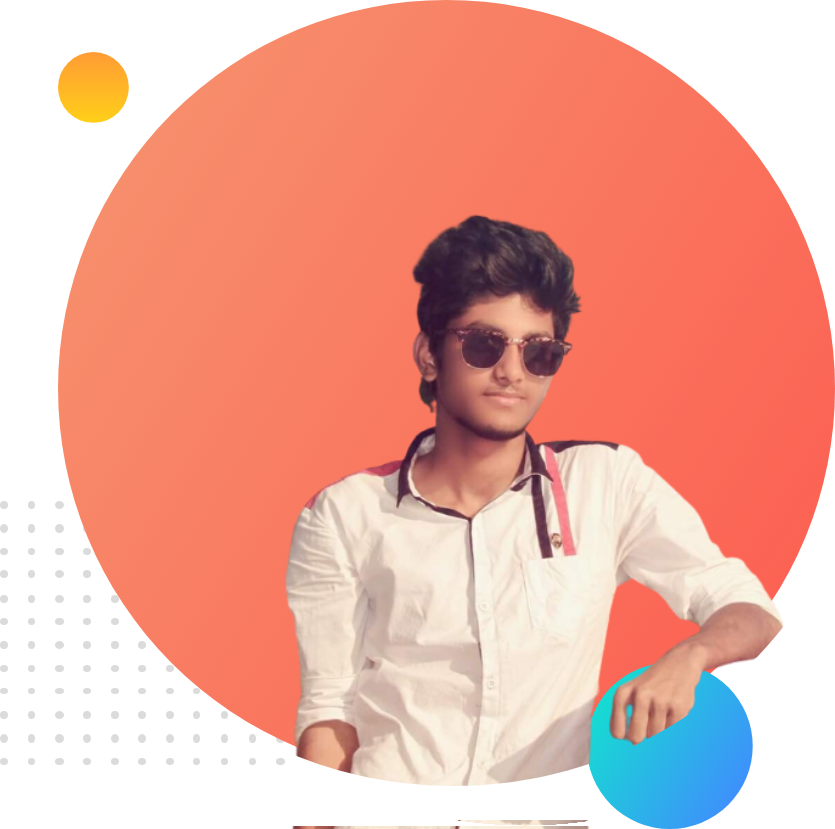
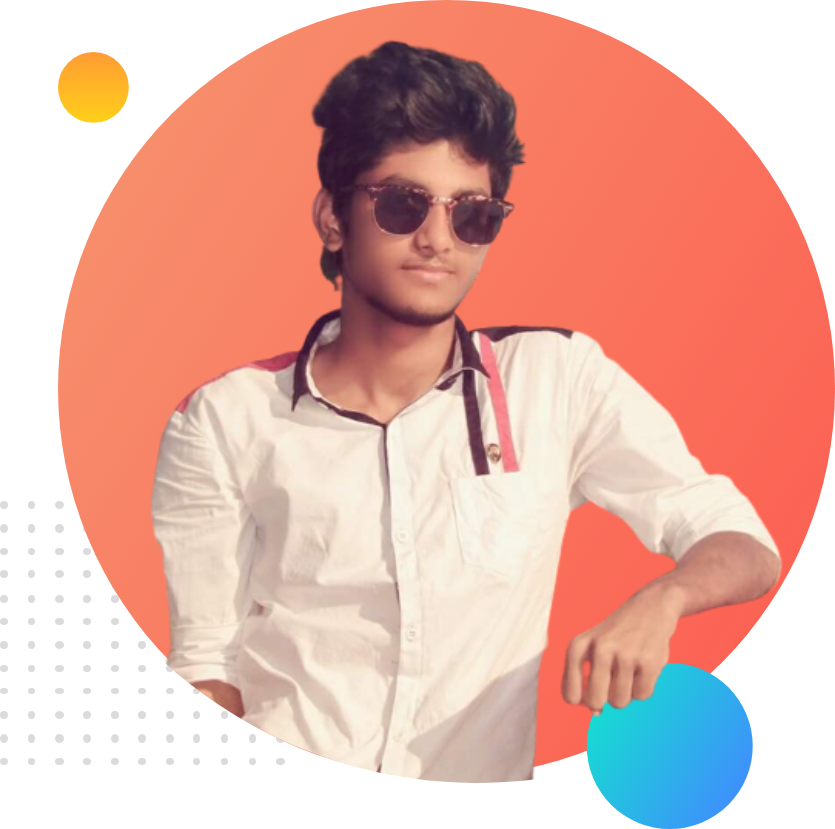
new png

diff --git a/index.html b/index.html
@@ -13,11 +13,11 @@
 </head>
 
 <body>
-    <section class="top-banner">
+    <section class="top-banner flexible-container">
         <div class="half-width">
             <h1>Welcome To</h1>
             <h1><span class="orange-color">Joy Chakraborty</span> World</h1>
-            <h2>Build Climber and Train Stopper</h2>
+            <h3>Build Climber and Train Stopper</h3>
             <p>You might saw me jumping, climbing buildings, and stopping trains. But nobody pays me a dime for that
                 work.
                 That's why I am learning and mastering web development. I will not stop until I become the Web
@@ -30,20 +30,49 @@
             <img src="images/joy.png" alt="">
         </div>
     </section>
-    <section>
-        <div class="half-width">
-            <h1>Dream Big</h1>
-            <h2>Become a web developer</h2>
-            <p>I already learned the basic HTML and CSS. I can build any simple website. I can even teach my grandma how
-                to make simple website. My goal is to build 3 websites and learn advanced topics.</p>
-            <a class="link-button" target="_blank"
-                href="https://www.linkedin.com/feed/?trk=onboarding-landing/">DOWNLOAD RESUME</a>
-        </div>
+    <section class="dream-big flexible-container">
         <div class="half-width">
             <img src="images/my-bg2.png" alt="">
         </div>
+        <div class="half-width">
+            <h1>Dream Big</h1>
+            <h3 class="orange-color">Become a web developer</h3>
+            <p>I already learned the basic HTML and CSS. I can build any simple website. I can even teach my grandma
+                how to make simple website. My goal is to build 3 websites and learn advanced topics.</p>
+            <a class="link-button" target="_blank"
+                href="https://www.linkedin.com/feed/?trk=onboarding-landing/">DOWNLOAD RESUME</a>
+        </div>
+
+
+        </div>
+    </section>
+    <section class="experience-area">
+        <h1>Experinces</h1>
+        <div class="flexible-container">
+            <div id="full-stack-developer" class="experince-item">
+                <h2>Full Stack Web developer</h2>
+                <h3 class="orange-color">2024-Present | Pro Level Developer</h3>
+                <p>I am the master of HTML, CSS and Javascript. I know everything needed to make a website function,
+                    efficient. I didn't stop with the web. I went beyond with most popular Javascript framework called
+                    Vue
+                    JS. I even know the deployment, server and security. I will give you 100% web solution.</p>
+            </div>
+            <div id="baby-web-developer" class="experince-item">
+                <h2>Baby Web Developer</h2>
+                <h3 class="orange-color">2022-2024 | Hero Learner</h3>
+                <p>They didn't offer me a job. But I made myself as a remove web developer. I made their website and
+                    showed
+                    it to them. They liked it. And uploaded the content. It was fun working at Programming Hero.
+
+                    © Peter Parker 2023, a Programming Hero initiative.</p>
+            </div>
+        </div>
+
     </section>
 
 </body>
+<footer>
+    <p>© Peter Parker 2023, a Programming Hero initiative.</p>
+</footer>
 
 </html>

diff --git a/style.css b/style.css
@@ -5,15 +5,19 @@ body {
 
 h1 {
     font-size: 50px;
-    color: black;
+}
+
+h2 {
+    font-size: 35px;
 }
 
 .orange-color {
     color: orange;
 }
 
-section {
+.flexible-container {
     display: flex;
+    margin-bottom: 150px;
 }
 
 .half-width {
@@ -22,16 +26,16 @@ section {
 
 }
 
-.half-width image {
-    width: 25%;
+.half-width img {
+    width: 80%;
 }
 
 .link-button {
     text-decoration: none;
     background-image: linear-gradient(orange, tomato);
+    padding: 10px 40px;
     color: white;
     font-weight: 700;
-    padding: 10px 40px;
     border-radius: 5px;
 }
 
@@ -45,5 +49,34 @@ section {
     background-repeat: no-repeat;
     background-position: right;
 
+}
 
+.experince-area {
+    background-image: url(images/exp-bg.png);
+    background-repeat: no-repeat;
+    background-position: left;
+
+}
+
+.experince-item {
+    width: 40%;
+    margin-left: 5%;
+    margin-right: 5%;
+    padding-left: 20px;
+    box-shadow: 10px 10px 40px gray;
+    border-radius: 10px;
+
+}
+
+#full-stack-developer {
+    border-left: 7px solid tomato;
+}
+
+#baby-web-developer {
+    border-left: 7px solid blue;
+}
+
+
+footer p {
+    text-align: center;
 }
